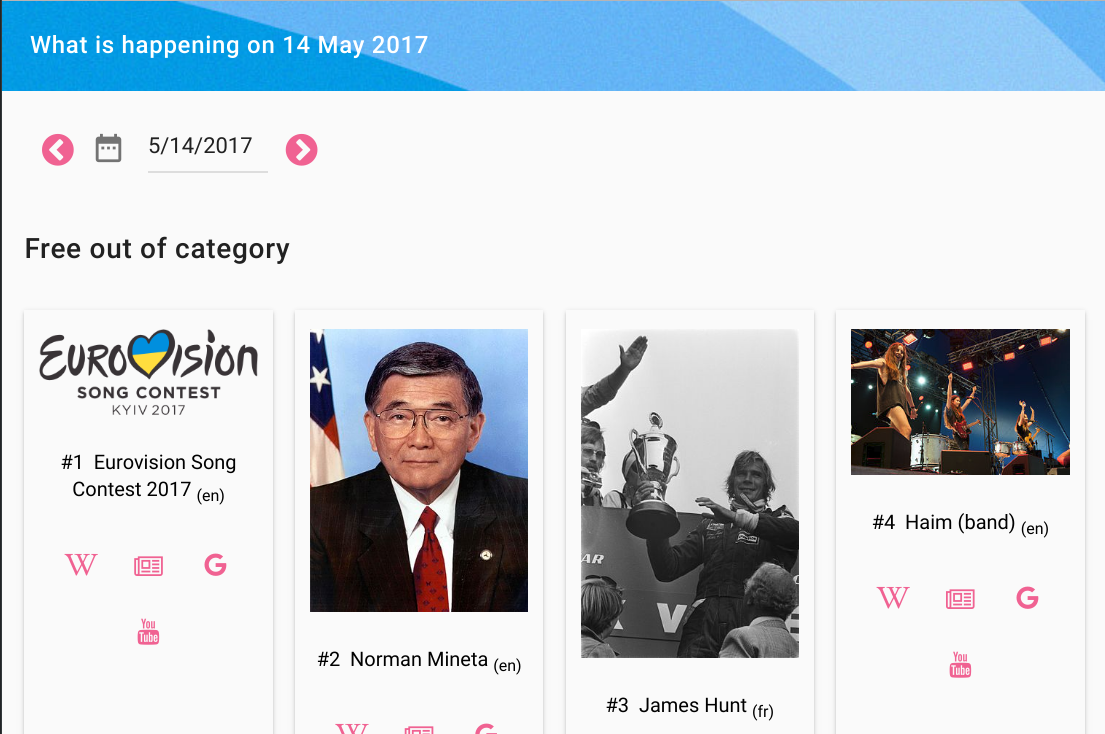
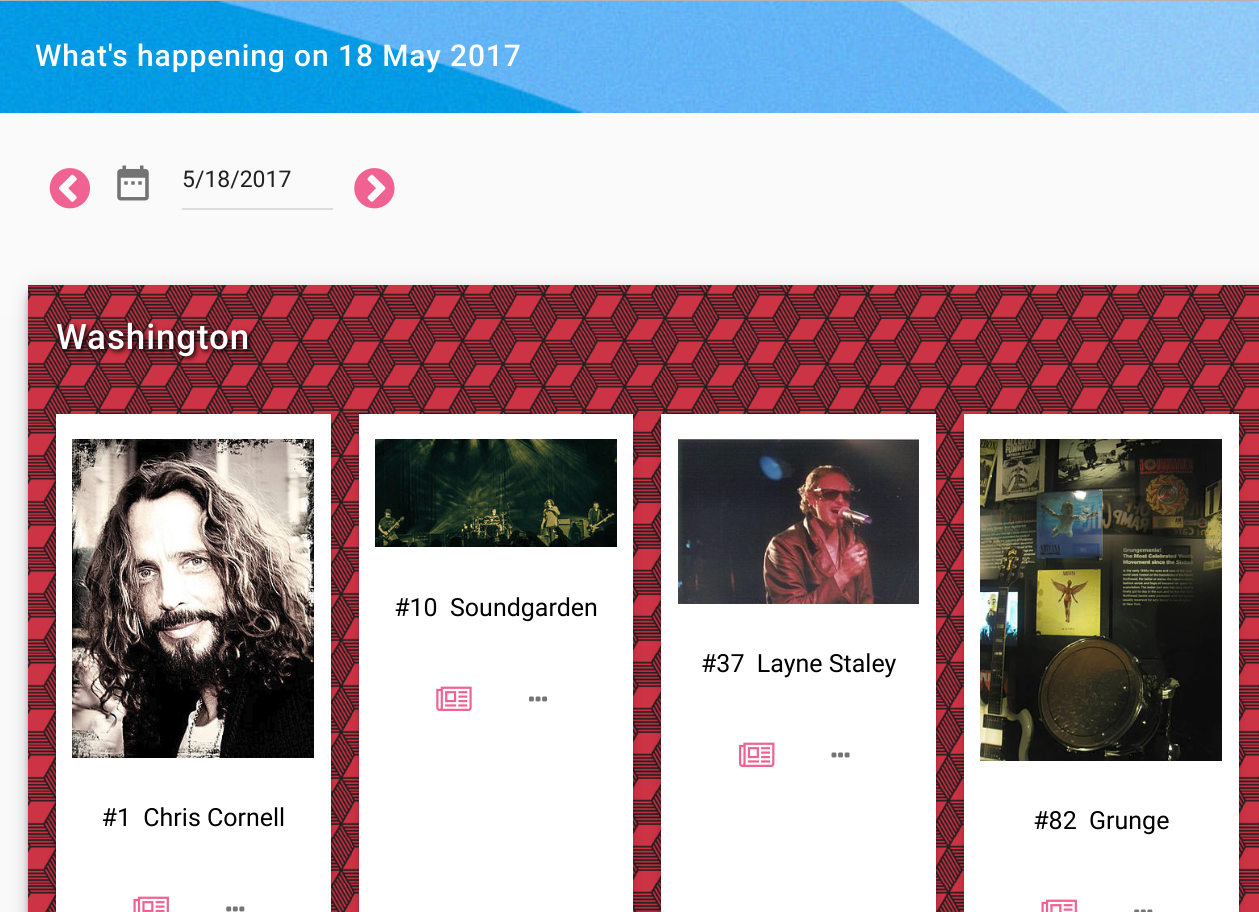
Minor changes

diff --git a/src/App.js b/src/App.js
@@ -12,7 +12,6 @@ import CircularProgress from 'react-md/lib/Progress/CircularProgress';
 import LinearProgress from 'react-md/lib/Progress/LinearProgress';
 import List from 'react-md/lib/Lists/List';
 import ListItem from 'react-md/lib/Lists/ListItem';
-import MenuButton from 'react-md/lib/Menus/MenuButton';
 import Dialog from 'react-md/lib/Dialogs';
 import FontIcon from 'react-md/lib/FontIcons';
 import axios from 'axios';
@@ -231,10 +230,11 @@ class MoreActions extends Component {
            className="menu-example"
            onClick={() => this.toggleDialog(true)}>
        <Dialog
-         title="More actions"
+         title={item.label}
          onHide={() => this.toggleDialog(false)}
          visible={this.state.visible} >
          <List>
+           <img src={item.thumbnail} alt={item.label} style={{width: "66%"}} />
            <ListItem
              leftIcon={<FontIcon
                iconClassName="fa fa-wikipedia-w"/>}
@@ -395,7 +395,7 @@ class App extends Component {
         <Helmet title="fads today" />
         <Toolbar
           colored
-          title={<div style={{fontSize: "17px", overflow: "hidden"}}> {"What is happening on " + moment(this.dateOrToday()).format("DD MMM YYYY")} </div>}
+          title={<div style={{fontSize: "17px", overflow: "hidden"}}> {"What's happening on " + moment(this.dateOrToday()).format("DD MMM YYYY")} </div>}
           style={{background: "url('toolbar-bg.jpg')", fontSize: "18px"}}
          />
 
